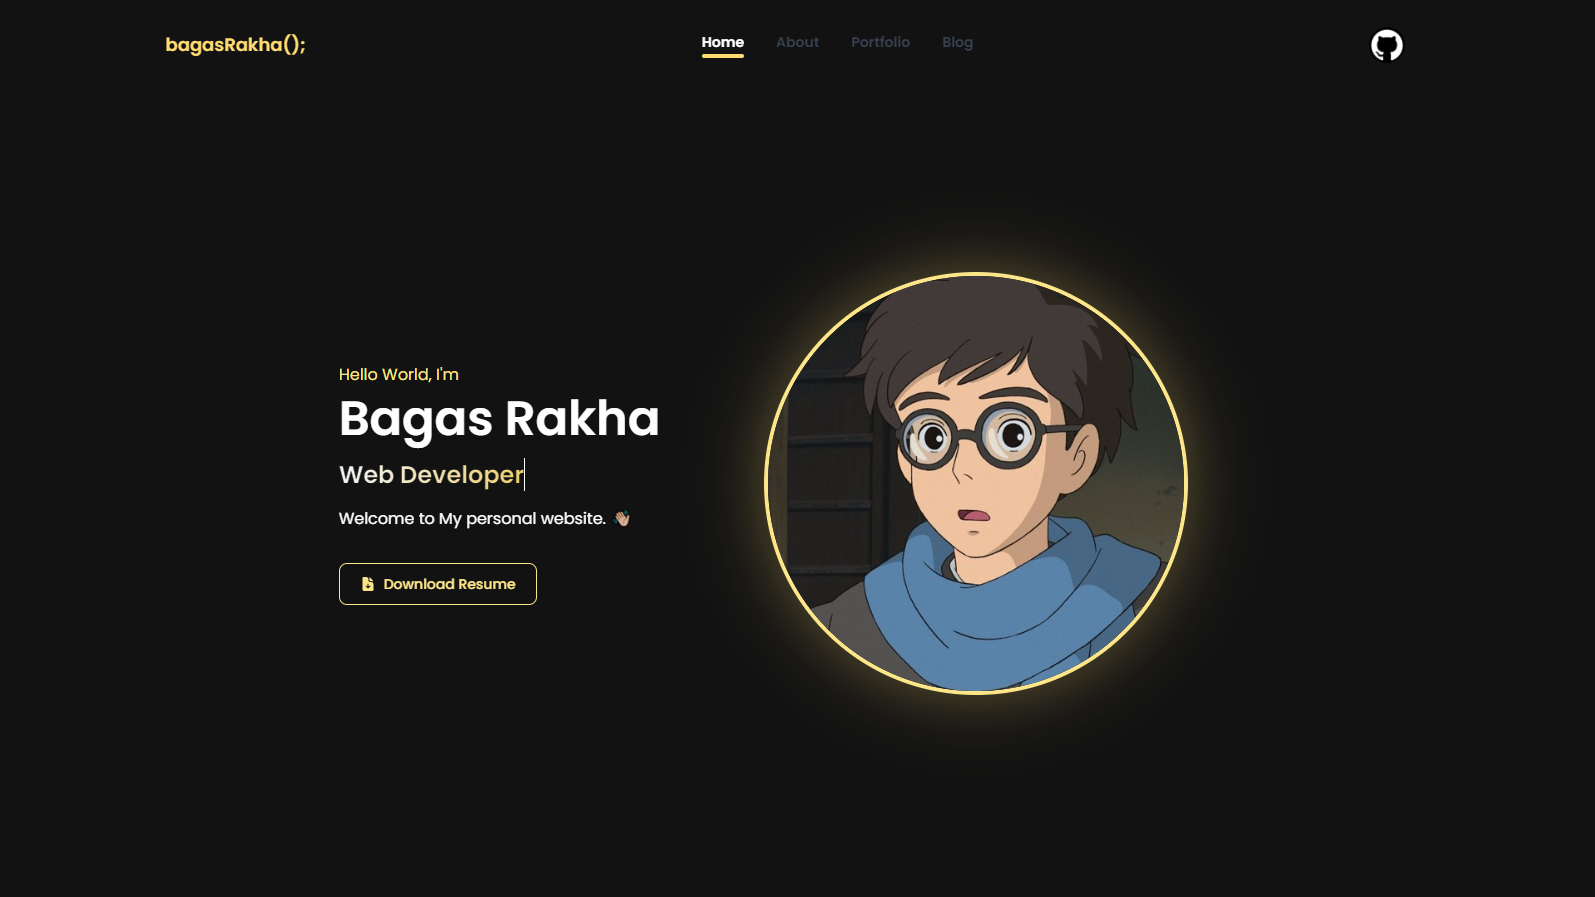
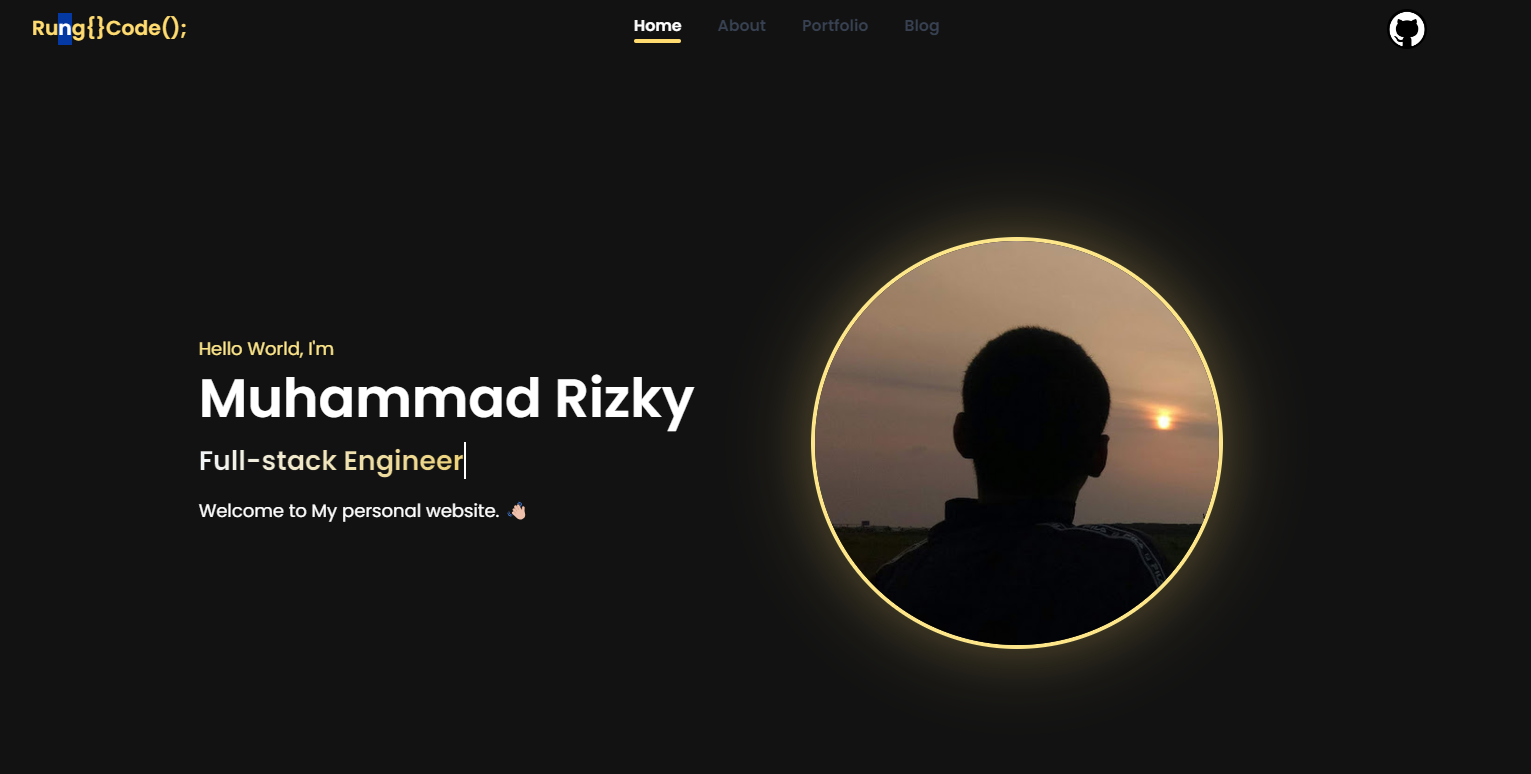
Add files via upload

diff --git a/src/views/HomeView.vue b/src/views/HomeView.vue
@@ -3,7 +3,7 @@
     class="mt-10 md:mt-1 flex flex-col-reverse gap-8 items-center md:flex-row md:gap-16 md:justify-center min-h-[65vh] md:min-h-[80vh]">
     <div class="space-y-2 text-center md:text-left px-10">
       <p class="text-amber-200">Hello World, I'm</p>
-      <h1 class="text-4xl font-bold md:text-5xl text-white fadein-up">Bagas Rakha</h1>
+      <h1 class="text-4xl font-bold md:text-5xl text-white fadein-up">Muhammad Rizky</h1>
       <div class="py-2">
         <h1
           class="typewrite text-xl font-semibold text-transparent bg-clip-text bg-gradient-to-r from-slate-100 to-yellow-500 md:text-2xl fadein-up"
@@ -25,7 +25,7 @@
         </svg>Download Resume</button> -->
     </div>
     <div class="flex justify-center md:justify-start fadein-right"><img alt="avatar" fetchpriority="high" width="300" height="300" decoding="async" data-nimg="1"
-        class="w-10/12 md:h-auto rounded-full border-4 border-amber-200 pict" src="https://i1.sndcdn.com/avatars-000214125831-5q6tdw-t500x500.jpg">
+        class="w-10/12 md:h-auto rounded-full border-4 border-amber-200 pict"   src="/img/avatar.jpg"> <!-- Ganti 'nama-file-gambar-anda.jpg' dengan nama gambar Anda -->
     </div>
   </main>
 </template>

diff --git a/src/views/AboutView.vue b/src/views/AboutView.vue
@@ -124,11 +124,11 @@ export default {
         class="text-sm md:text-lg text-justify flex flex-col gap-4 md:flex-row md:gap-8 md:justify-left md:items-center">
         <div class="flex justify-center">
           <img class="w-9/12 rounded-full mb-3 fadein-up"
-            src="https://i1.sndcdn.com/avatars-000214125831-5q6tdw-t500x500.jpg" alt="Foto">
+          src="/img/logo.jpg" alt="Foto">
         </div>
         <div class="md:w-7/12">
           <p class="mb-3 md:mb-7 fadein-left fadeins-1">
-            &nbsp; &nbsp; &nbsp; Hi everyone! My name is Bagas Rakha Putra. I'm a web developer from Bogor, West Java. I
+            &nbsp; &nbsp; &nbsp; Hi everyone! My name is Muhammad Rizky. I'm a web developer from Bekasi, West Java. I
             have 1 year of experience in back-end web development.
             I really enjoy what I do right now, in my opinion, creating programs is not just a job, but also an art that
             has

diff --git a/src/views/PortfolioView.vue b/src/views/PortfolioView.vue
@@ -10,8 +10,8 @@ export default {
           imageUrl: 'portfolio_v2',
           status: 'My personal website, I created this website to display my profile, skills and projects. As well as my place to try new technology.',
           tech: 'VueJS 3, Tailwind',
-          github: 'https://github.com/rakha-elctrnx/Portofolio-v2',
-          demo: 'https://bagasrakha.netlify.app/'
+          github: 'https://github.com/Dupanstore/M.Rizky',
+          demo: 'https://m-rizky.netlify.app/'
         },
         {
           id: 2,
@@ -20,7 +20,7 @@ export default {
           status: 'A website that has a responsive display to make it easier for Muslims to read the Quran from anywhere.',
           tech: 'VueJS 3, Tailwind',
           github: 'https://github.com/rakha-elctrnx/muslim-companion',
-          demo: 'https://sahabat-muslim.netlify.app/'
+          demo: 'null'
         },
         {
           id: 3,

diff --git a/src/App.vue b/src/App.vue
@@ -6,7 +6,7 @@
     <nav class="max-w-7xl px-5 md:fixed top-0 z-[98] w-screen backdrop-blur-md bg-[#121212] bg-opacity-80">
       <div class="container mx-auto flex flex-wrap items-center justify-between">
         <button @click="redirectToHome" class="flex">
-          <span class="self-center text-lg text-[#ffdb70] font-semibold whitespace-nowrap fadein-bot hover:text-amber-100">bagasRakha();</span>
+          <span class="self-center text-lg text-[#ffdb70] font-semibold whitespace-nowrap fadein-bot hover:text-amber-100">Rung{}Code();</span>
         </button>
         <div class="flex md:order-2 fadein-bot">
           <a href="https://github.com/rakha-elctrnx"><img class="w-9 rounded-full" src="https://seeklogo.com/images/G/github-logo-2E3852456C-seeklogo.com.png" alt="github"></a>
